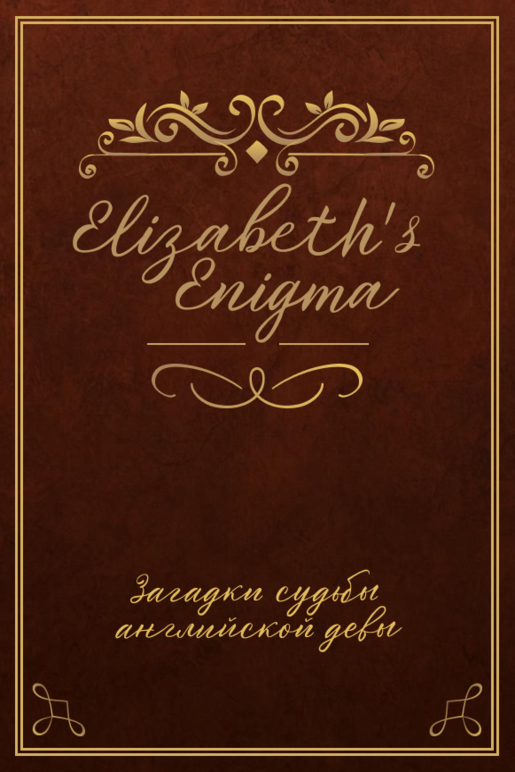
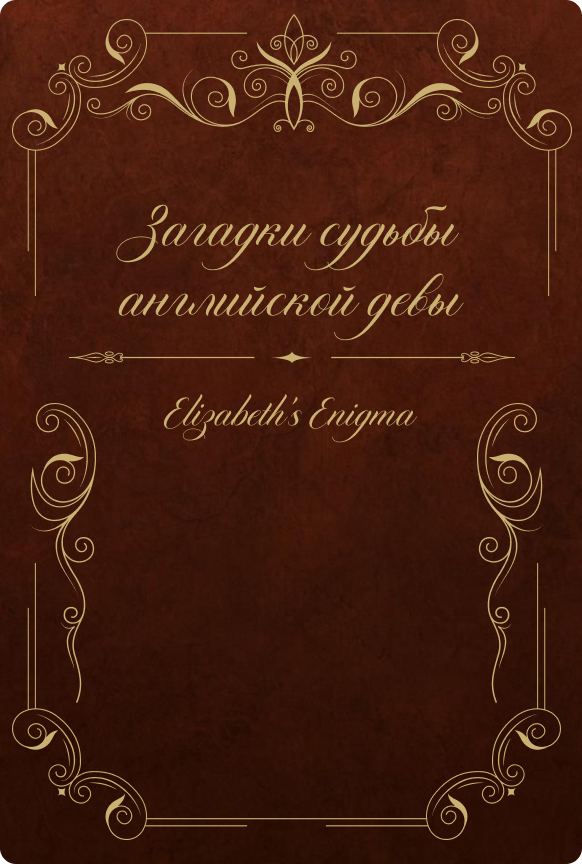
добавлены жизни, добавлен фон книги, заменена обложка, добавлен логотип

diff --git a/index.html b/index.html
@@ -10,12 +10,17 @@
     <script defer src="js/app.js"></script>
 </head>
 <body>
-    <div class="title"><h1 class="main-title">Загадки судьбы английской девы</h1></div>
+    <div class="title"><img src="img/logo.png" alt="Лого" class="logo"></div>
     <div class="container">
         <button id="prev-btn">
             <i class="prev-btn"><img src="img/prev%20button.png" alt=""></i>
         </button>
-
+        <div class="game-lives">
+            <img src="img/life-img.png" alt="" class="game-life1">
+            <img src="img/life-img.png" alt="" class="game-life2">
+            <img src="img/life-img.png" alt="" class="game-life3">
+        </div>
+        <img src="img/book-background.png" alt="Книга" class="book-background" id="book-background">
         <!-- The Book -->
         <div id="book" class="book">
             <!-- Paper 1 -->
@@ -27,9 +32,9 @@
                 </div>
                 <div class="back">
                     <div id="b1" class="back-content page1">
-                            <div class="page1__title"><img src="img/backstory-title.png" alt="Заголовок" class="backstory-title"></div>
-                            <div class="page1-text"><p class="page1-p">В подростковом возрасте  в семье  Элизабет начались проблемы. Ее отчим  - алхимик Эдвард Келли попал в немилость императора.<p>Фемида встала на сторону Рудольфа II,  Эдвард был заключен в тюрьму по обвинению в государственной измене.
-                            </p></div>
+                        <div class="page1__title"><img src="img/backstory-title.png" alt="Заголовок" class="backstory-title"></div>
+                        <div class="page1-text"><p class="page1-p">В подростковом возрасте  в семье  Элизабет начались проблемы. Ее отчим  - алхимик Эдвард Келли попал в немилость императора.<p>Фемида встала на сторону Рудольфа II,  Эдвард был заключен в тюрьму по обвинению в государственной измене.
+                        </p></div>
                     </div>
                 </div>
             </div>

diff --git a/css/style.css b/css/style.css
@@ -22,12 +22,26 @@ body {
 
 .title {
     text-align: center;
-    color: #fff;
-    font-size: 35px;
-    font-family: Montserrat;
-    padding-top: 59px;
-    padding-bottom: 55px;
+    padding-top: 36px;
+    padding-bottom: 60px;
 }
+
+.game-lives {
+    position: absolute;
+    top: 59px;
+    left: 90px;
+    display: flex;
+    column-gap: 31px;
+}
+
+.book-background {
+    position: absolute;
+    z-index: -1;
+    top: 200px;
+    left: 220px;
+    visibility: hidden;
+}
+
 
 /* Button */
 /*button {*/
@@ -57,17 +71,17 @@ i {
 }
 
 .prev-btn {
-    padding-right: 80px;
+    padding-right: 140px;
 }
 
 .next-btn {
-    padding-left: 80px;
+    padding-left: 140px;
 }
 
 /* Book */
 .book {
-    width: 515px;
-    height: 772px;
+    width: 460px;
+    height: 685px;
     position: relative;
     transition: transform 0.5s;
 }
@@ -79,6 +93,11 @@ i {
     top: 0;
     left: 0;
     perspective: 1500px;
+}
+
+.cover {
+    width: 100%;
+    height: 100%;
 }
 
 /*.cover {*/

diff --git a/js/app.js b/js/app.js
@@ -2,6 +2,7 @@
 const prevBtn = document.querySelector('#prev-btn');
 const nextBtn = document.querySelector('#next-btn');
 const book = document.querySelector('#book');
+const bookBackground = document.querySelector('#book-background')
 
 const paper1 = document.querySelector('#p1')
 const paper2 = document.querySelector('#p2')
@@ -42,6 +43,7 @@ function goNext() {
         switch(currentState) {
             case 1:
                 openBook();
+                bookBackground.style.visibility = 'unset';
                 paper1.classList.add("flipped");
                 paper1.style.zIndex = 1;
                 break;
